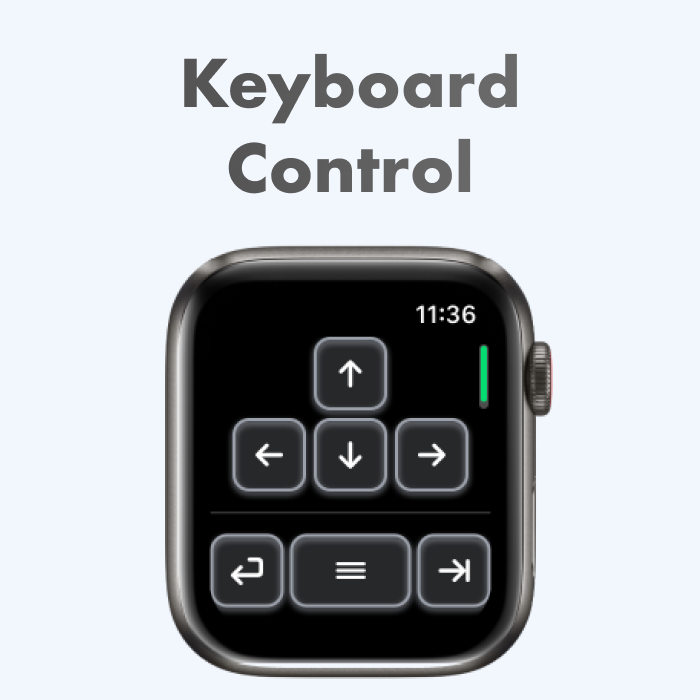
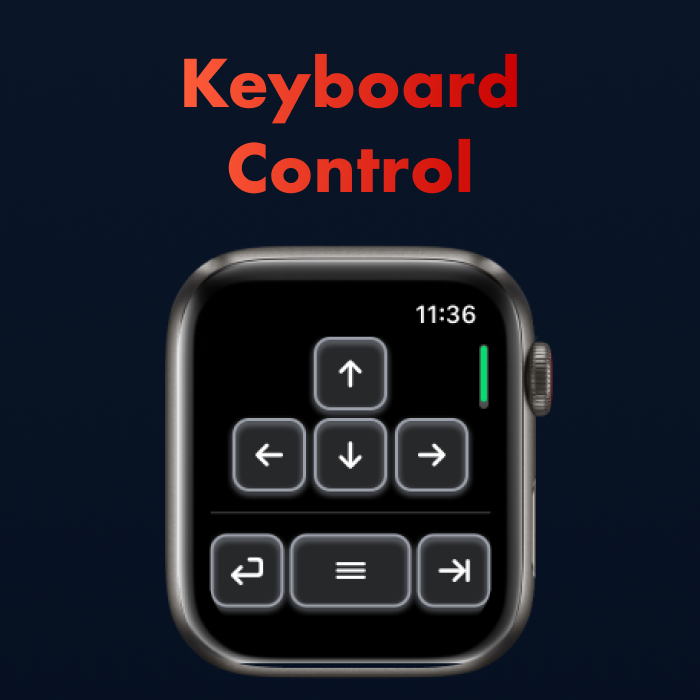
redesign, dark mode and cleaner images

diff --git a/index.html b/index.html
@@ -101,15 +101,6 @@
 			</div>
 		</div>
 	</div>
-	<div class="container fill-bloc-bottom-edge">
-		<div class="row">
-			<div class="col-12">
-				<div class="text-center">
-					<a href="#" data-scroll-speed="1000" onclick="scrollToTarget('0',this)"><span class="fa fa-angle-down icon-md animated bounce animDelay08"></span></a>
-				</div>
-			</div>
-		</div>
-	</div>
 </div>
 <!-- bloc-1 END -->
 
@@ -119,7 +110,12 @@
 		<div class="row voffset-clear-xs">
 			<div class="col-12">
 				<div class="card-columns">
-					<img src="img/lazyload-ph.png" data-src="img/Frame%205.png" class="img-fluid mg-sm img-frame-5-style scroll-fx-left-in scroll-fx-left-out lazyload" alt="clicker" /><img src="img/lazyload-ph.png" data-src="img/Frame%203.png" class="img-fluid mg-sm img-frame-5-style scroll-fx-left-out lazyload" alt="keyboard bg" /><img src="img/lazyload-ph.png" data-src="img/Frame%201.png" class="img-fluid mg-sm img-frame-5-style lazyload" alt="clicker" /><img src="img/lazyload-ph.png" data-src="img/Frame%204.png" class="img-fluid mg-sm img-frame-5-style scroll-fx-down-out lazyload" alt="keyboard bg" /><img src="img/lazyload-ph.png" data-src="img/Frame%207.png" class="img-fluid mg-sm img-frame-5-style scroll-fx-right-in scroll-fx-right-out lazyload" alt="keyboard bg" /><img src="img/lazyload-ph.png" data-src="img/Frame%206.png" class="img-fluid mg-sm img-frame-5-style scroll-fx-right-out lazyload" alt="keyboard bg" />
+					<img src="img/lazyload-ph.png" data-src="img/Frame%205.png" class="img-fluid mg-sm img-frame-5-style scroll-fx-left-in  lazyload" alt="clicker" />
+					<img src="img/lazyload-ph.png" data-src="img/Frame%203.png" class="img-fluid mg-sm img-frame-5-style  lazyload" alt="keyboard bg" />
+					<img src="img/lazyload-ph.png" data-src="img/Frame%201.png" class="img-fluid mg-sm img-frame-5-style lazyload" alt="clicker" />
+					<img src="img/lazyload-ph.png" data-src="img/Frame%204.png" class="img-fluid mg-sm img-frame-5-style lazyload" alt="keyboard bg" />
+					<img src="img/lazyload-ph.png" data-src="img/Frame%207.png" class="img-fluid mg-sm img-frame-5-style scroll-fx-right-in lazyload" alt="keyboard bg" />
+					<img src="img/lazyload-ph.png" data-src="img/Frame%206.png" class="img-fluid mg-sm img-frame-5-style  lazyload" alt="keyboard bg" />
 				</div>
 			</div>
 		</div>

diff --git a/style.css b/style.css
@@ -370,7 +370,7 @@ h1,h2,h3,h4,h5,h6,p,label,.btn,a{
 
 .h1-style{
 	font-size: 72px;
-	background: linear-gradient(90deg, #ff0000 0%, #ff0000 100%);
+	background: linear-gradient(90deg, #ff3116 0%, #ff0000 100%);
 	background-clip: text;
 	-webkit-background-clip: text;
 	-webkit-text-fill-color: transparent;
@@ -378,7 +378,7 @@ h1,h2,h3,h4,h5,h6,p,label,.btn,a{
 }
 .h2-style{
 	font-size: 48px;
-	background: linear-gradient(45deg, #ff1e00 0%, #ff009d 100%);
+	background: linear-gradient(45deg, #ff1e00 0%, #ff0015 100%);
 	background-clip: text;
 	-webkit-background-clip: text;
 	-webkit-text-fill-color: transparent;
@@ -386,7 +386,7 @@ h1,h2,h3,h4,h5,h6,p,label,.btn,a{
 }
 
 .h3-3-style{
-	background: linear-gradient(90deg, #ff008c 0%, #ff0000 100%);
+	background: linear-gradient(90deg, #ff511c 0%, #e20000 100%);
 	background-clip: text;
 	-webkit-background-clip: text;
 	-webkit-text-fill-color: transparent;
@@ -395,7 +395,7 @@ h1,h2,h3,h4,h5,h6,p,label,.btn,a{
 }
 
 .h4-style{
-	color: rgba(255, 193, 201, 0.932);
+	color: rgba(255, 202, 193, 0.932);
 	font-weight: 550;
 
 }
@@ -433,7 +433,7 @@ h1,h2,h3,h4,h5,h6,p,label,.btn,a{
 .btn-download-now-style{
 	font-weight:bold;
 	border: none;
-	background: linear-gradient(90deg, #ff2600 0%, #ff0062 100%);
+	background: linear-gradient(90deg, #ff2600 0%, #ff4800 100%);
 	border-radius:25px;
 	box-shadow: 10px 10px 25px rgba(97, 0, 24, 0.918);
 }
@@ -448,7 +448,7 @@ h1,h2,h3,h4,h5,h6,p,label,.btn,a{
 }
 
 .btn-style:hover{
-	background:linear-gradient(0deg, #F13B43 0%, #ff626a 100%);
+	background:linear-gradient(0deg, #F13B43 0%, #ff8e62 100%);
 }
 .btn-2-style:hover{
 	background:linear-gradient(0deg, #3C3B3B  0%, #6e656c 98%);
@@ -463,16 +463,16 @@ h1,h2,h3,h4,h5,h6,p,label,.btn,a{
 /* Background colour styles */
 
 .bgc-black{
-	background-color:#000000;
+	background:linear-gradient(180deg, rgb(0, 10, 24) 0%, rgb(0, 0, 0) 100%);
 }
 
 /* Text colour styles */
 
 .tc-charcoal{
-	color:#ff0000!important;
+	color:#ff1e00!important;
 }
 .tc-glaucous{
-	color:#ff5252!important;
+	color:#ff2929!important;
 }
 .tc-white{
 	color:#FFFFFF!important;
